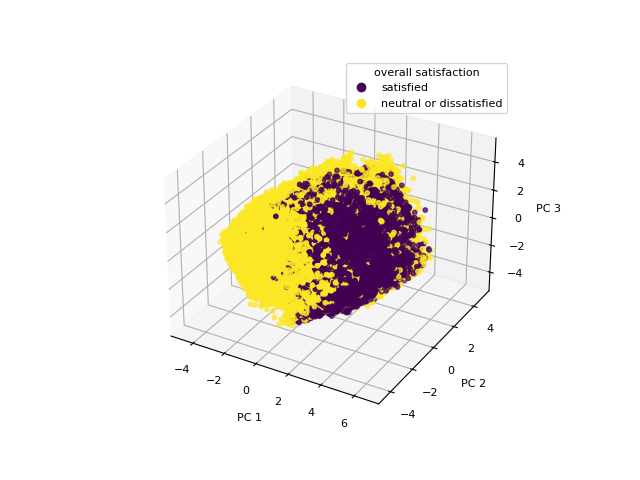
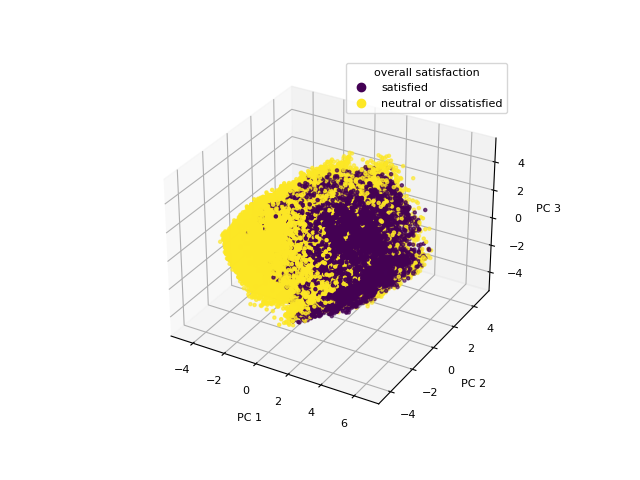
mean heatmaps

Changed region(s): [[0.375, 0.3125, 0.6875, 0.6875], [0.3438, 0.5312, 0.375, 0.5938], [0.3438, 0.4688, 0.375, 0.5]]

diff --git a/ML/ml.py b/ML/ml.py
@@ -193,7 +193,7 @@ def visualize_data(df, img_path):
     #plt.show()
     plt.savefig(img_path+"/data_visualization/density.png")
 
-def plot_3d_scatter(x,y, title, img_path):
+def plot_3d_scatter(x,y, title, img_path, size=10):
     """
     Plots and saves a 3d scatter plot
 
@@ -202,6 +202,7 @@ def plot_3d_scatter(x,y, title, img_path):
         y: the labels
         title: the title
         img_path: the path to the images folder
+        size: the size of the points
     """
 
     axis_labels = x.columns
@@ -209,7 +210,7 @@ def plot_3d_scatter(x,y, title, img_path):
 
     fig = plt.figure()
     ax = fig.add_subplot(111, projection='3d')
-    sc= ax.scatter(x[:,0],x[:,1],x[:,2], c=y, s = 10)
+    sc= ax.scatter(x[:,0],x[:,1],x[:,2], c=y, s = size)
     ax.set_xlabel(axis_labels[0])
     ax.set_ylabel(axis_labels[1])
     ax.set_zlabel(axis_labels[2])
@@ -258,7 +259,7 @@ def feature_selection(X, Y, N, img_path = None):
     us = X[selected_cols]
 
     if img_path is not None:
-        plot_3d_scatter(us,Y, "univariate_selection", img_path)
+        plot_3d_scatter(us,Y, "univariate_selection", img_path, 5)
 
     print("Univariate Selection best Features:\t", selected_cols)
     print(us.head())
@@ -303,7 +304,7 @@ def feature_selection(X, Y, N, img_path = None):
     print(pca.head())
 
     if img_path is not None:
-        plot_3d_scatter(pca,Y, "pca", img_path)
+        plot_3d_scatter(pca,Y, "pca", img_path, 5)
 
     #plt.plot(pca_f.explained_variance_ratio_, 'bd-')
     #plt.show()
@@ -389,16 +390,46 @@ def visualize_classification(data_path):
     Parameters:
         data_path: the path to the data folder
     """
+
     # get all the csv files in the data folder
     files = [f for f in listdir(data_path) if f.endswith(".csv")]
 
+    # get the names of the algorithms
+    file_names = [f.split(".")[0] for f in files]
+
+    means_all = np.zeros((6,len(files)))
+    times_all = np.zeros((6,len(files)))
+    
+    for i,file in enumerate(files):
+        # read the file
+        df = pd.read_csv(data_path+"/"+file)
+
+        # get the means and times)
+        means = df.iloc[:,1].values
+        times = df.iloc[:,3].values
+
+        # store the means and times
+        means_all[:,i] = means
+        times_all[:,i] = times
+
+    model_names = df.iloc[:,0].values
+
+    # plot heatmaps using seaborn
+    sns.heatmap(means_all, annot=True, xticklabels=file_names, yticklabels=model_names, cmap="YlGnBu")
+    #plt.show() 
+    plt.savefig(data_path+"\heatmaps_means.png")
+    plt.close()
+
+    sns.heatmap(times_all, annot=True, xticklabels=file_names, yticklabels=model_names, cmap="YlGnBu")
+    #plt.show()
+    plt.savefig(data_path+"\heatmaps_time.png")
+    plt.close()
+
+
+
+
     
 def main():
-    pd.set_option('precision', 3)
-    plt.rcParams.update({'font.size': 8})
-    IMG_PATH = "ML/img"
-    DATA_PATH = "ML/data"
-    SEED = 123456789
 
     data = read_data()
     #print(data.shape)
@@ -425,4 +456,12 @@ def main():
 
 
 if __name__ == "__main__":
-    main()
+    pd.set_option('precision', 3)
+    plt.rcParams.update({'font.size': 8})
+
+    IMG_PATH = "ML/img"
+    DATA_PATH = "ML/data"
+    SEED = 123456789
+
+    #main()
+    visualize_classification(DATA_PATH)
